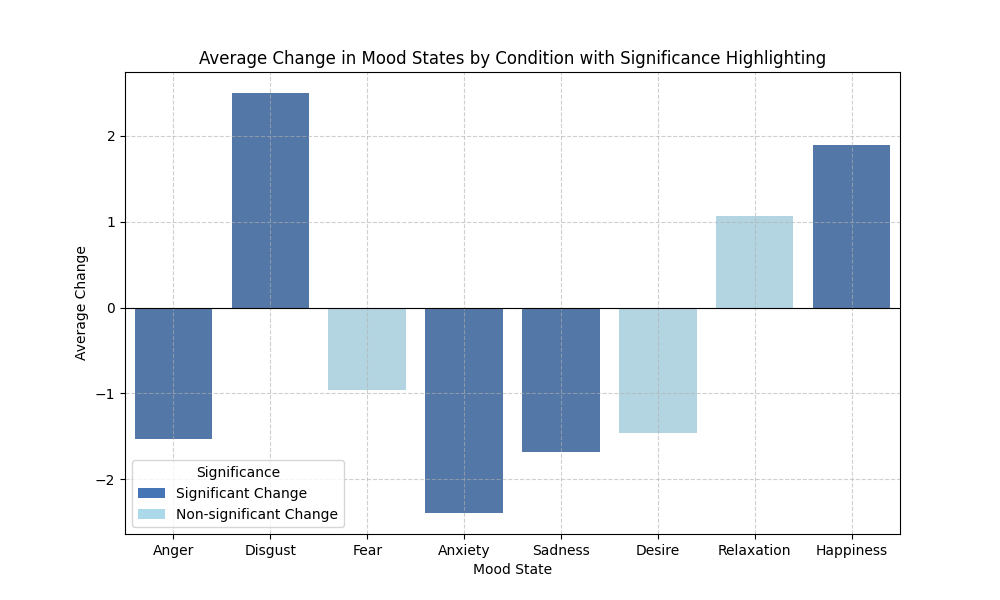
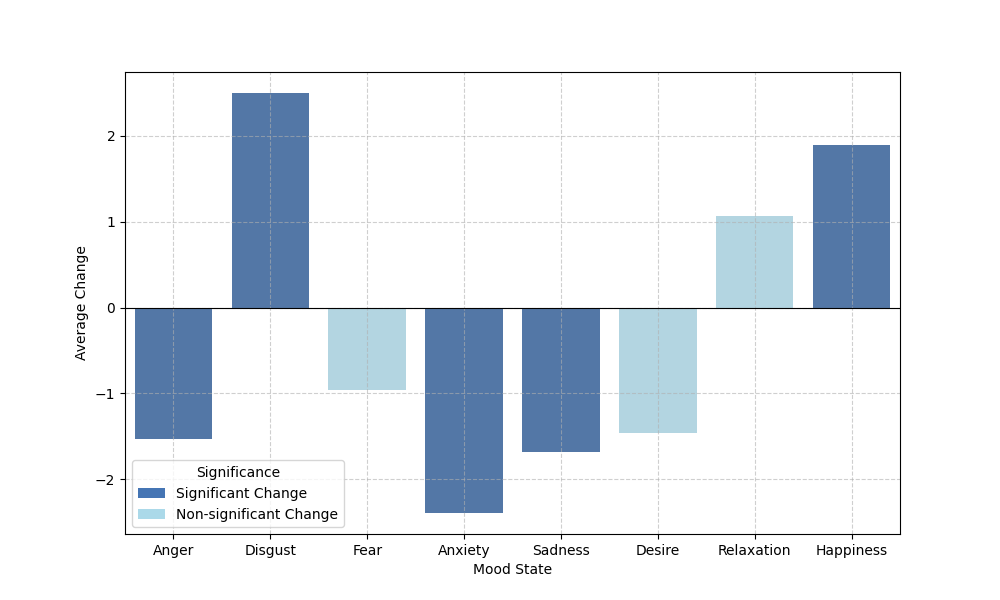
.

Changed region(s): [[0.186, 0.09, 0.837, 0.12]]

diff --git a/POMS/DEQ_ALL_mood_changes.py b/POMS/DEQ_ALL_mood_changes.py
@@ -30,7 +30,7 @@ summary_stats = {
 plt.figure(figsize=(10, 6))  
 colors = ['#abd9e9' if stats['p-value'] > 0.05 else '#4575b4' for stats in summary_stats.values()]
 bars = sns.barplot(x=list(summary_stats.keys()), y=[data[f'Change_{mood}'].mean() for mood in mood_states], palette=colors)
-plt.title('Average Change in Mood States by Condition with Significance Highlighting')
+#plt.title('Average Change in Mood States by Condition with Significance Highlighting')
 plt.xlabel('Mood State')
 plt.ylabel('Average Change')
 plt.axhline(0, color='black', linewidth=0.8) 
